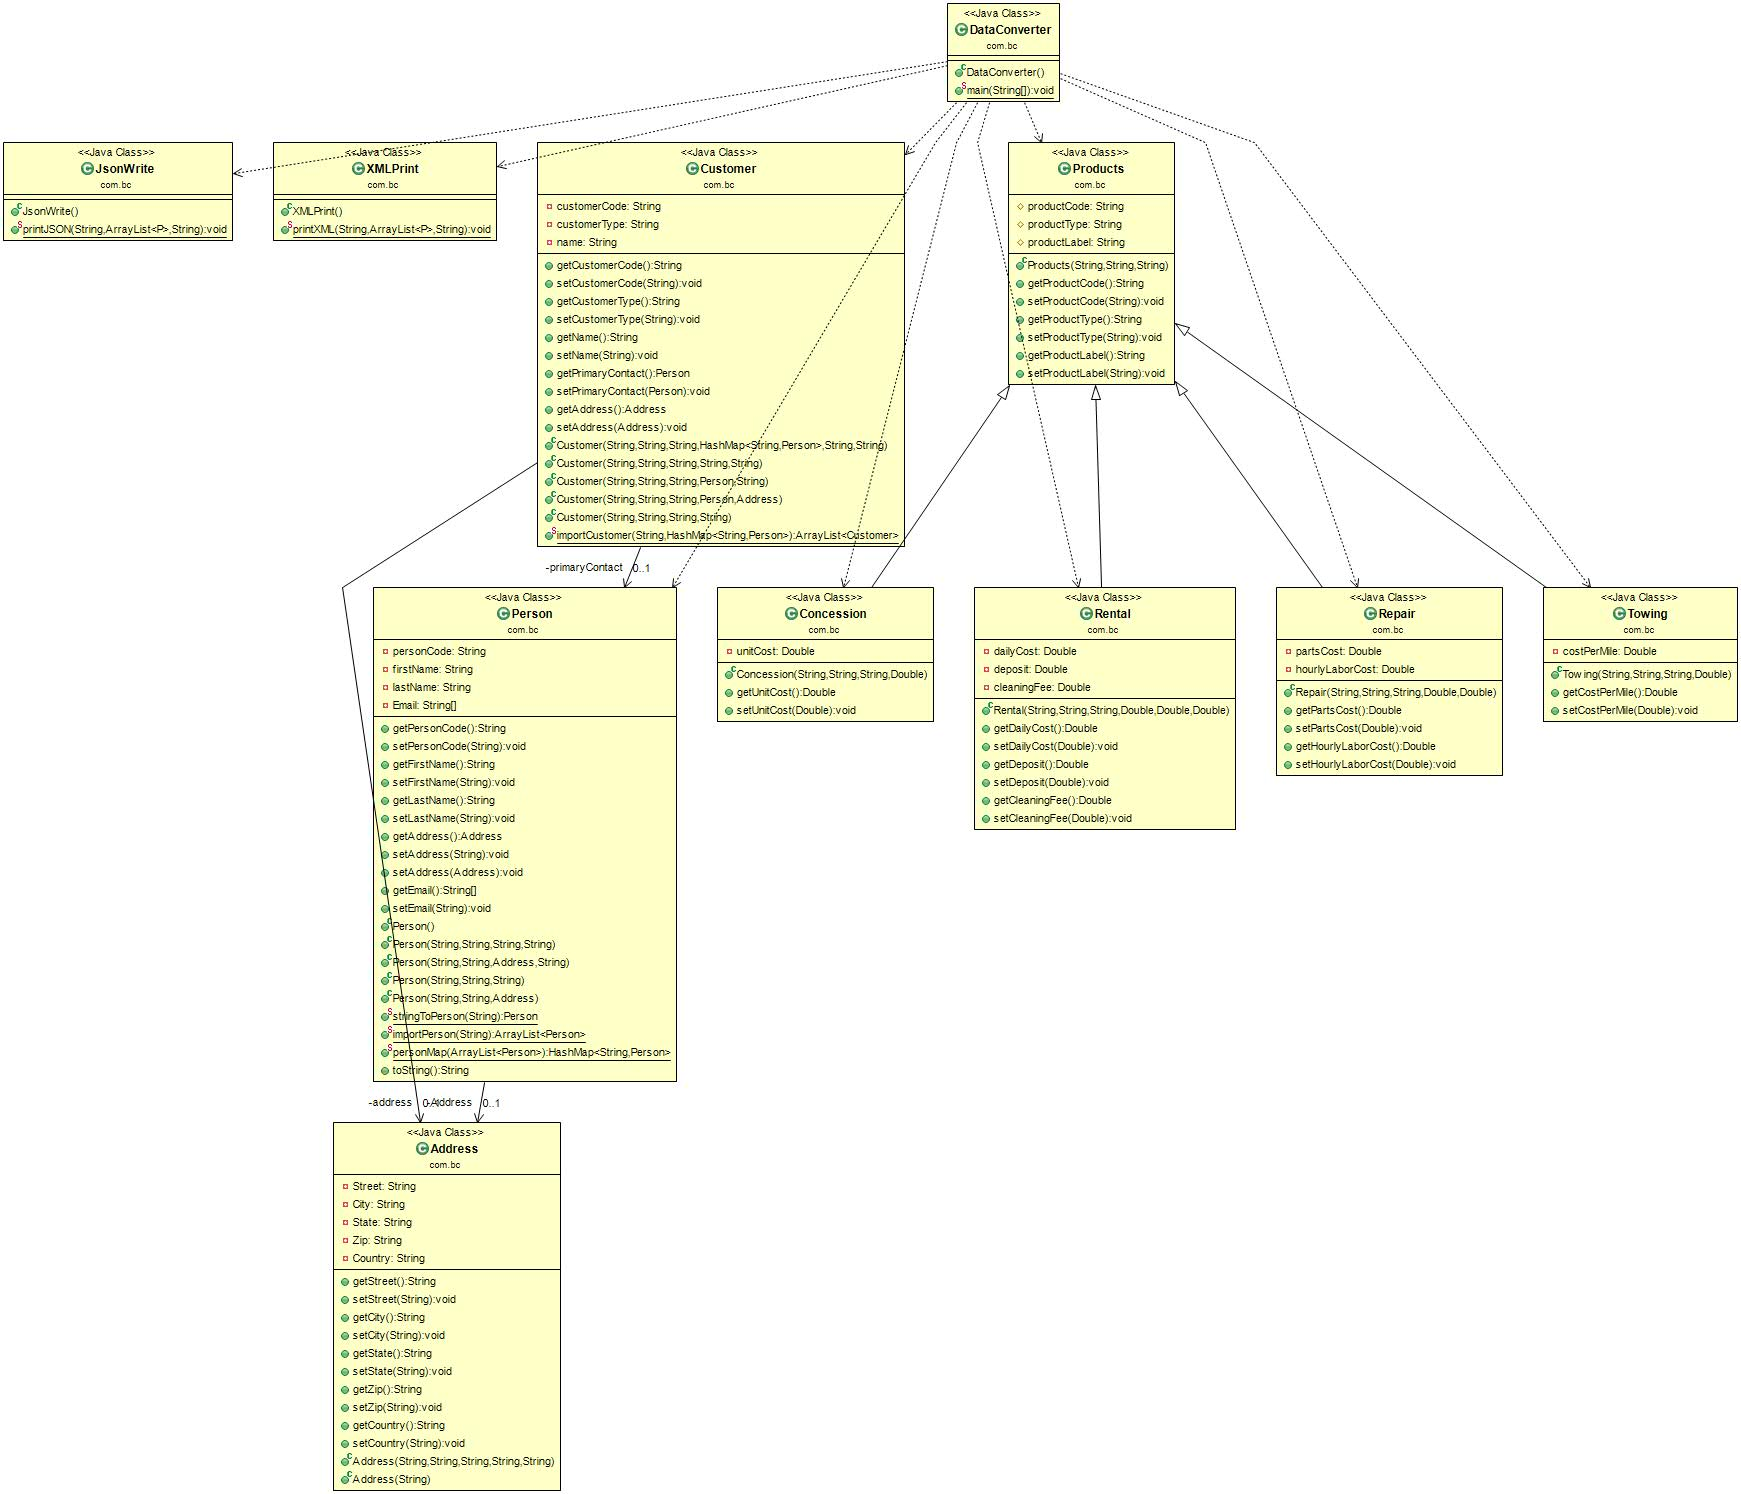
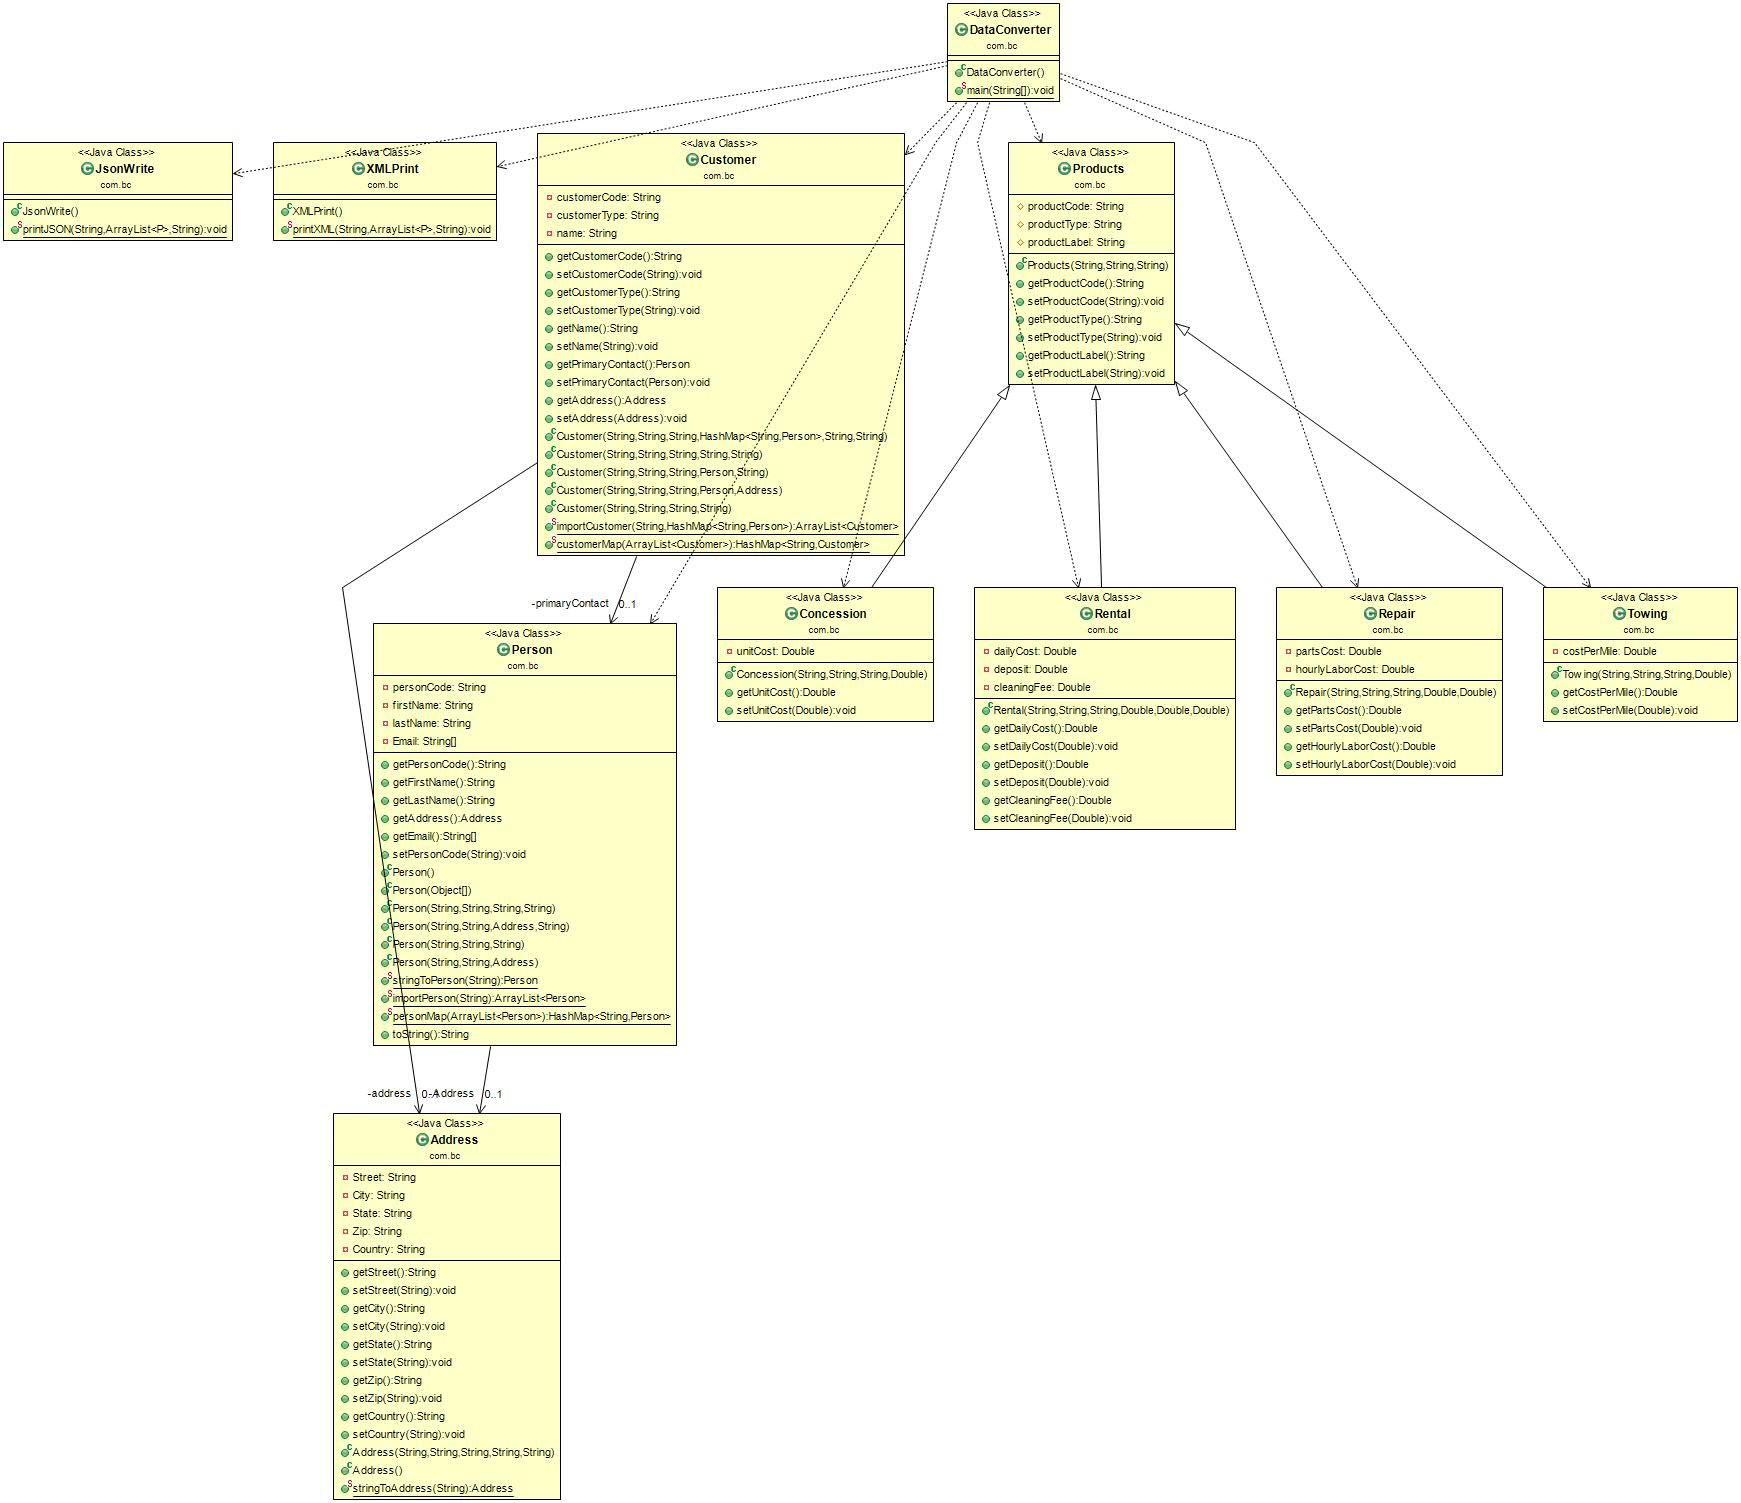
Update Classes
Started to update original person, customer, and address classes based on feedback.  Also created invoice sublass

diff --git a/CSCE156_Assignment_2/src/com/bc/Person.java b/CSCE156_Assignment_2/src/com/bc/Person.java
@@ -23,71 +23,65 @@ public class Person  {
 	public String getPersonCode() {
 		return personCode;
 	}
-	public void setPersonCode(String personCode) {
-		this.personCode = personCode;
-	}
+
 	public String getFirstName() {
 		return firstName;
 	}
-	public void setFirstName(String name) {
-		this.firstName = name;
-	}
+
 	public String getLastName() {
 		return lastName;
 	}
-	public void setLastName(String name) {
-		this.lastName = name;
-	}
+
 	public Address getAddress() {
 		return Address;
 	}
-	public void setAddress(String address) {
-		this.Address = new Address(address);
-	}
-	public void setAddress(Address address) {
-		this.Address = address;
-	}
+
 	public String[] getEmail() {
 		return Email;
 	}
-	public void setEmail(String email) {
-		this.Email = email.split(",");
+	// One setter kept, in order to assign an empty person to the customer class.  This allows the customers person code
+	//to be retained, when no matching person is present.
+	public void setPersonCode(String personCode) {
+		this.personCode = personCode;
 	}
-	
 	//Constructors
 	//General Constructor
 	public Person() {
 		super();
 	}
+	//Test constructor for variable arguments.
+	public Person(Object[] args) {
+		
+	}
 	//Constructor for String Address input, with email.
-	public Person(String personCode, String Name, String Address, String email) {
+	public Person(String personCode, String Name, String address, String email) {
 		super();
 		String[] names = Name.split(",");
 		this.personCode = personCode;
-		this.Address = new Address(Address);
+		this.Address = Address.stringToAddress(address);
 		this.lastName = names[0];
 		this.firstName = names[1];
 		this.Email = email.split(",");
 	}	
 	//Constructor for Address class address, with email.
-	public Person(String personCode, String Name, Address Address, String Email) {
+	public Person(String personCode, String Name, Address address, String Email) {
 		super();
 		String[] names = Name.split(",");
 		this.personCode = personCode;
 		this.lastName = names[0];
 		this.firstName = names[1];
-		this.Address = Address;
+		this.Address = address;
 		this.Email = Email.split(",");
 	}	
 	//Constructor for String Address, and no email.	
-	public Person(String personCode, String Name, String Address) {
+	public Person(String personCode, String Name, String address) {
 		super();
 		String[] names = Name.split(",");
 		this.Email = null;
 		this.personCode = personCode;
 		this.lastName = names[0];
 		this.firstName = names[1];
-		this.Address = new Address(Address);
+		this.Address = Address.stringToAddress(address);
 		
 	}
 	//Constructor for Address class address, and no email.

diff --git a/CSCE156_Assignment_2/src/com/bc/Customer.java b/CSCE156_Assignment_2/src/com/bc/Customer.java
@@ -68,7 +68,7 @@ public class Customer {
 		this.customerType = type;
 		this.name = name;
 		this.primaryContact = map.get(contactCode);
-		this.address = new Address(address);
+		this.address = Address.stringToAddress(address);
 
 	}
 
@@ -79,7 +79,7 @@ public class Customer {
 		this.customerType = type;
 		this.name = name;
 		this.primaryContact = Person.stringToPerson(contact);
-		this.address = new Address(address);
+		this.address = Address.stringToAddress(address);
 	}
 
 	// Constructor based on Person input, String address
@@ -89,7 +89,7 @@ public class Customer {
 		this.customerType = type;
 		this.name = name;
 		this.primaryContact = contact;
-		this.address = new Address(address);
+		this.address = Address.stringToAddress(address);
 	}
 
 	// Constructor based on Person input, Address input.
@@ -110,7 +110,7 @@ public class Customer {
 		this.name = name;
 		this.primaryContact = new Person();
 		System.out.println(address);
-		this.address = new Address(address);
+		this.address = Address.stringToAddress(address);
 	}
 
 	// Methods
@@ -144,5 +144,13 @@ public class Customer {
 		}
 		s.close();
 		return customers;
+	}
+	// Creates a HashMap of customers mapped to their customer codes.
+	public static HashMap<String,Customer> customerMap(ArrayList<Customer> list){
+		HashMap<String,Customer> map = new HashMap<String,Customer>();
+		for(Customer c: list) {
+			map.put(c.getCustomerCode(),c);
+		}
+		return map;
 	}
 }

diff --git a/CSCE156_Assignment_2/src/com/bc/Invoice.java b/CSCE156_Assignment_2/src/com/bc/Invoice.java
@@ -1,0 +1,35 @@
+package com.bc;
+import java.util.ArrayList;
+
+public class Invoice <T extends Products> {
+
+	private String invoiceCode;
+	private Person owner;
+	private Customer customerData;
+	private ArrayList<T> productList;
+	
+	public String getInvoiceCode() {
+		return invoiceCode;
+	}
+	public Person getOwner() {
+		return owner;
+	}
+	public Customer getCustomerData() {
+		return customerData;
+	}
+	public ArrayList<T> getProductList() {
+		return productList;
+	}
+	
+	public Invoice(String invoiceCode, Person owner, Customer customerData, ArrayList<T> productList) {
+		super();
+		this.invoiceCode = invoiceCode;
+		this.owner = owner;
+		this.customerData = customerData;
+		this.productList = productList;
+	}
+	
+	
+	
+	
+}

diff --git a/CSCE156_Assignment_2/src/com/bc/Address.java b/CSCE156_Assignment_2/src/com/bc/Address.java
@@ -49,17 +49,21 @@ public class Address {
 		this.Zip = zip;
 		this.Country = country;
 	}
-	// Constructor from string
-	public Address(String Address) {
+	public Address() {
 		super();
+	}
+	// Method
+	public static Address stringToAddress(String Address) {
+		Address out = new Address();
 		String[] Tokens = Address.split(",");
-		this.Street = Tokens[0];
-		this.City = Tokens[1];
-		this.State = Tokens[2];
-		this.Country = Tokens[4];
+		out.Street = Tokens[0];
+		out.City = Tokens[1];
+		out.State = Tokens[2];
+		out.Country = Tokens[4];
 		if(Tokens[3] != null) {
-			this.Zip = Tokens[3];
+			out.Zip = Tokens[3];
 		}
+		return out;
 	}
 	
 	
